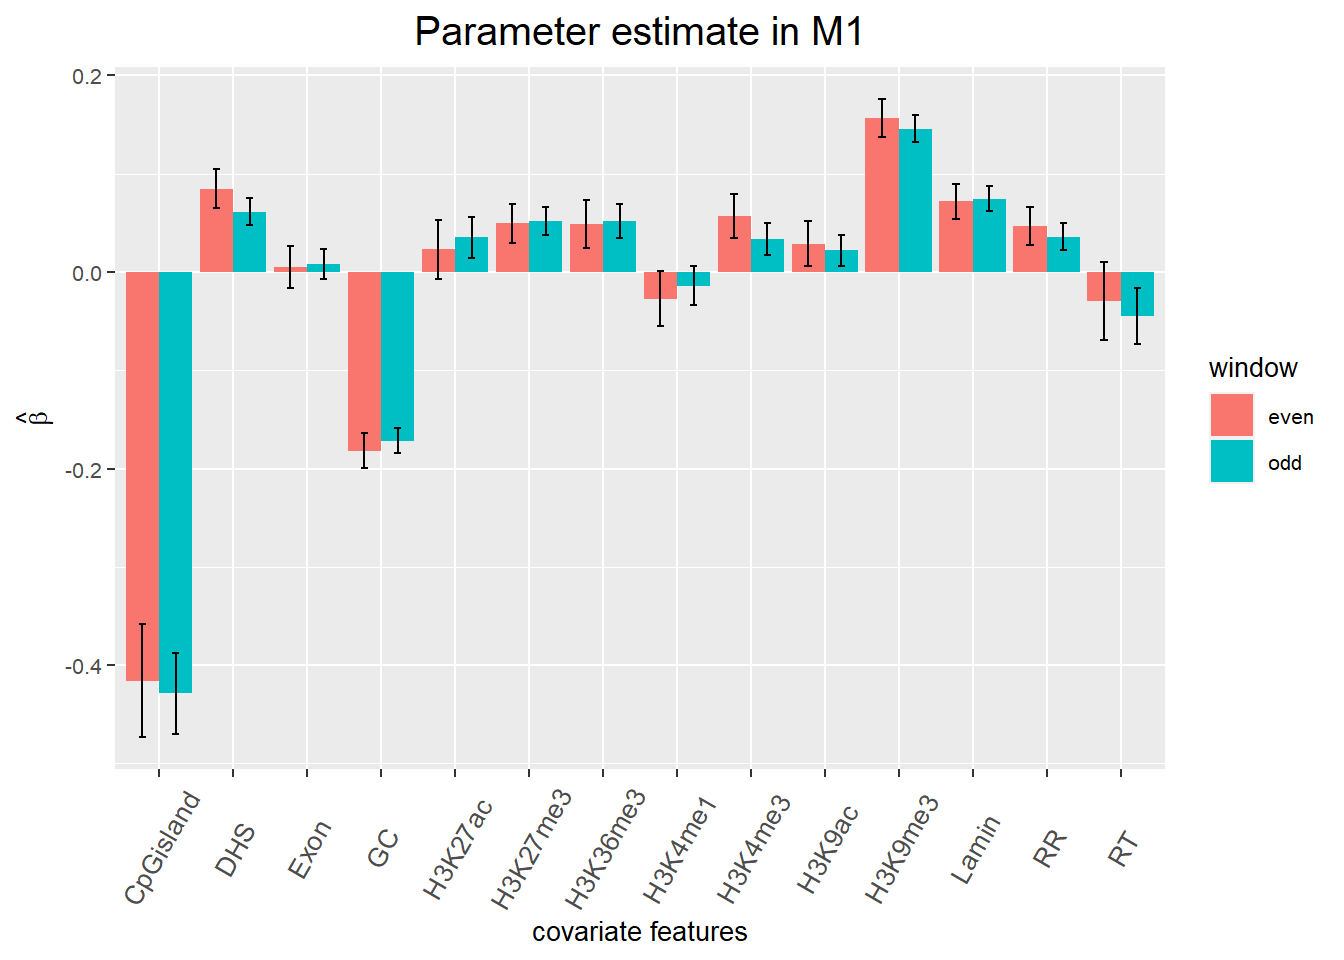
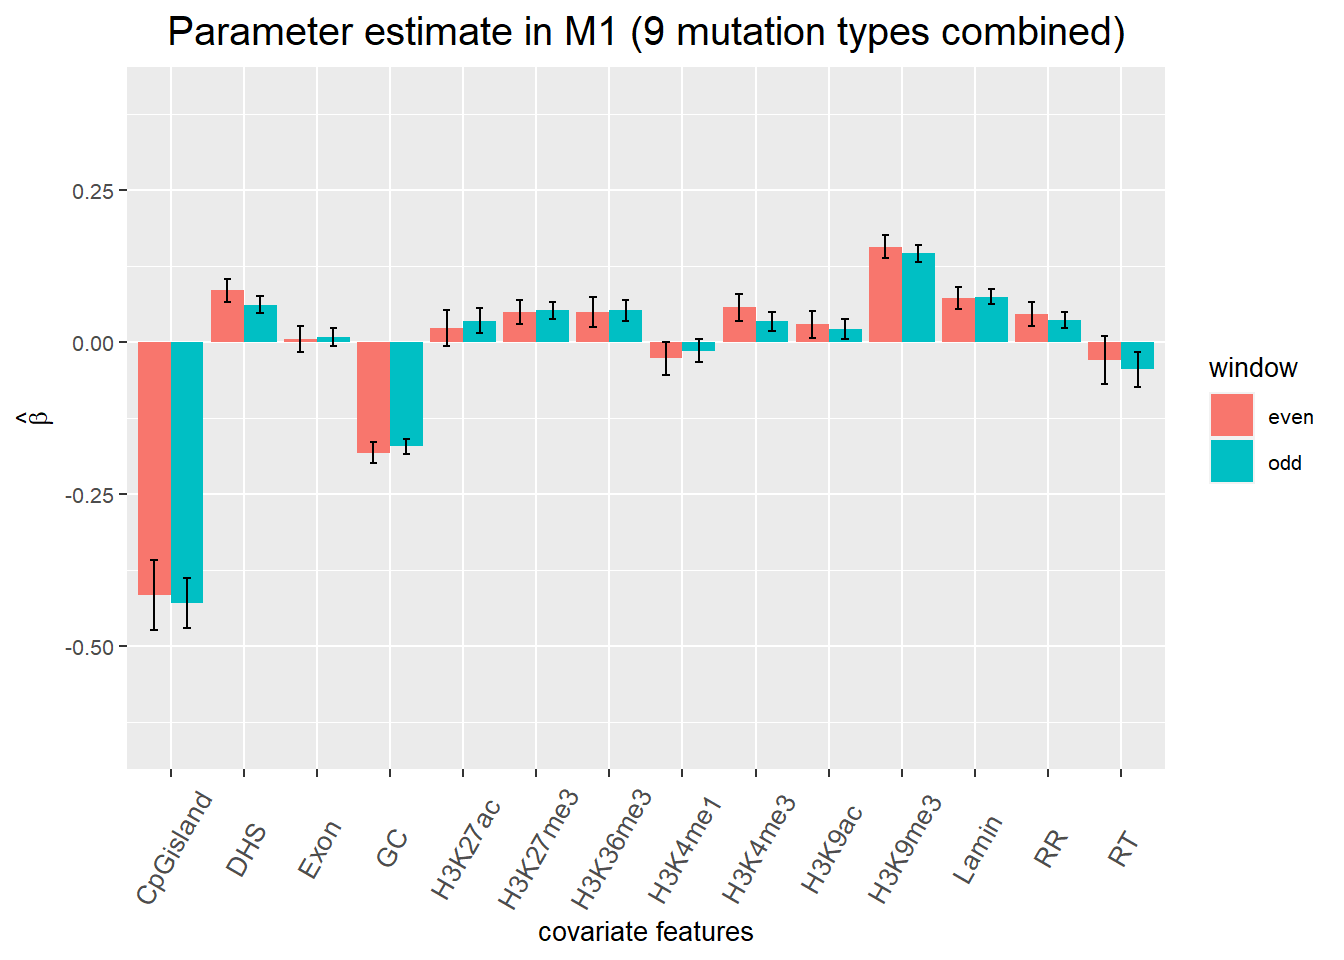
8/12/2021

diff --git a/docs/simons-control-wgs.html b/docs/simons-control-wgs.html
@@ -758,13 +758,24 @@ No enrichment!
 </ul>
 <p><img src="simons-control-wgs_files/figure-html/unnamed-chunk-19-1.png" width="672" /><img src="simons-control-wgs_files/figure-html/unnamed-chunk-19-2.png" width="672" /><img src="simons-control-wgs_files/figure-html/unnamed-chunk-19-3.png" width="672" /><img src="simons-control-wgs_files/figure-html/unnamed-chunk-19-4.png" width="672" /><img src="simons-control-wgs_files/figure-html/unnamed-chunk-19-5.png" width="672" /><img src="simons-control-wgs_files/figure-html/unnamed-chunk-19-6.png" width="672" /><img src="simons-control-wgs_files/figure-html/unnamed-chunk-19-7.png" width="672" /><img src="simons-control-wgs_files/figure-html/unnamed-chunk-19-8.png" width="672" /><img src="simons-control-wgs_files/figure-html/unnamed-chunk-19-9.png" width="672" /><img src="simons-control-wgs_files/figure-html/unnamed-chunk-19-10.png" width="672" /><img src="simons-control-wgs_files/figure-html/unnamed-chunk-19-11.png" width="672" /><img src="simons-control-wgs_files/figure-html/unnamed-chunk-19-12.png" width="672" /><img src="simons-control-wgs_files/figure-html/unnamed-chunk-19-13.png" width="672" /><img src="simons-control-wgs_files/figure-html/unnamed-chunk-19-14.png" width="672" /></p>
 </div>
-<div id="parameter-estimate-in-m1" class="section level3">
-<h3>Parameter estimate in M1</h3>
+<div id="parameter-estimate" class="section level3">
+<h3>Parameter estimate</h3>
 <ul>
 <li>three continuous variables are firstly standardized, then converted into binary variable before collapsing</li>
 <li>vertical lines are 95% confidence interval</li>
 </ul>
+</div>
+<div id="model-m1-all-9-mutation-types-combined" class="section level3">
+<h3>Model M1 (all 9 mutation types combined)</h3>
 <p><img src="simons-control-wgs_files/figure-html/unnamed-chunk-20-1.png" width="672" /></p>
+<div id="model-m13-cpg-mutation-types-combined" class="section level4">
+<h4>Model M1(3 CpG mutation types combined)</h4>
+<p><img src="simons-control-wgs_files/figure-html/unnamed-chunk-21-1.png" width="672" /></p>
+</div>
+<div id="model-m16-noncpg-mutation-types-combined" class="section level4">
+<h4>Model M1(6 nonCpG mutation types combined)</h4>
+<p><img src="simons-control-wgs_files/figure-html/unnamed-chunk-22-1.png" width="672" /></p>
+</div>
 </div>
 </div>
 <div id="referecnce" class="section level2">
